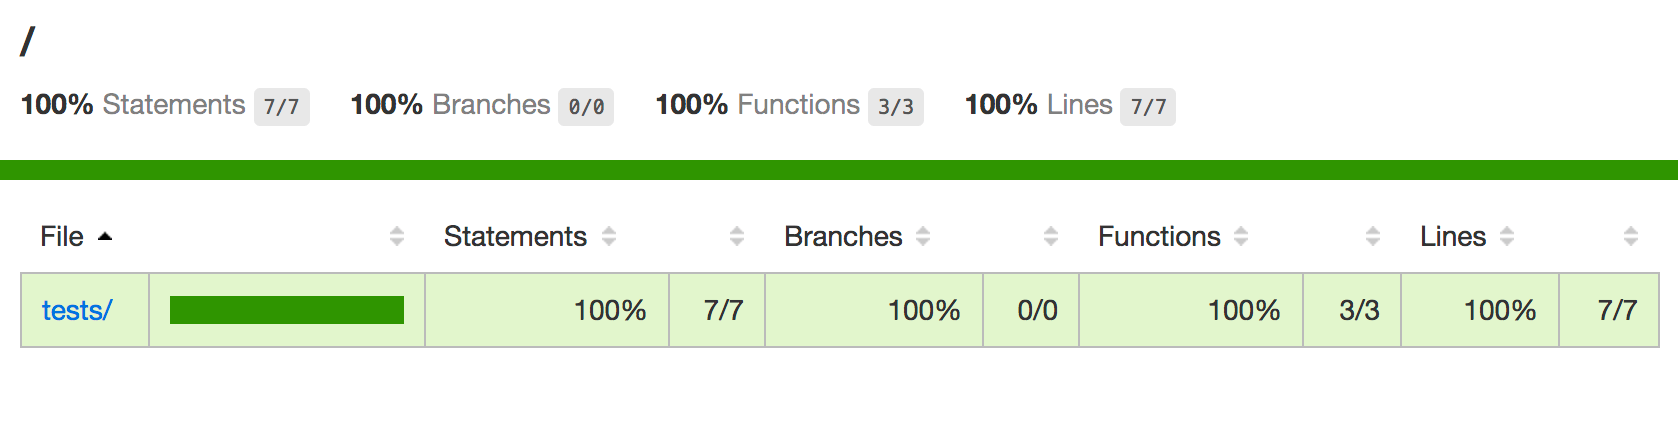
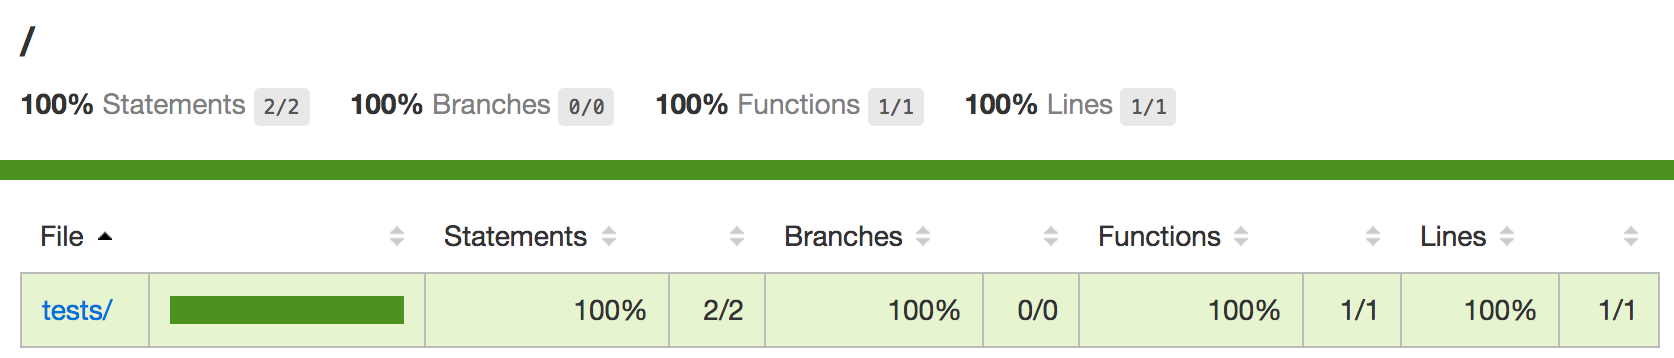
chore: Cover Karma bits more accurately

diff --git a/manuscript/techniques/04_testing.md b/manuscript/techniques/04_testing.md
@@ -208,7 +208,9 @@ module.exports = (config) => {
 };
 ```
 
-W> The file has to be named exactly as *karma.conf.js* as otherwise, Karma doesn't pick it up automatically.
+W> The file has to be named exactly as *karma.conf.js*. Otherwise Karma doesn't pick it up automatically.
+
+W> The setup generates a bundle per each test. If you have a large amount of tests and want to improve performance, set up `require.context` as for Mocha above. See [karma-webpack issue 23](https://github.com/webpack-contrib/karma-webpack/issues/23) for more details.
 
 {pagebreak}
 
@@ -319,7 +321,7 @@ Install the dependencies first:
 npm install babel-plugin-istanbul karma-coverage --save-dev
 ```
 
-Connect the Babel plugin so that the instrumentation only happens when Karma is run:
+Connect the Babel plugin so that the instrumentation happens when Karma is run:
 
 **.babelrc**
 
@@ -330,7 +332,12 @@ leanpub-start-insert
   "env": {
     "karma": {
       "plugins": [
-        "istanbul"
+        [
+          "istanbul",
+          {
+            "exclude": ["tests/*.test.js"]
+          }
+        ]
       ]
     }
   }
